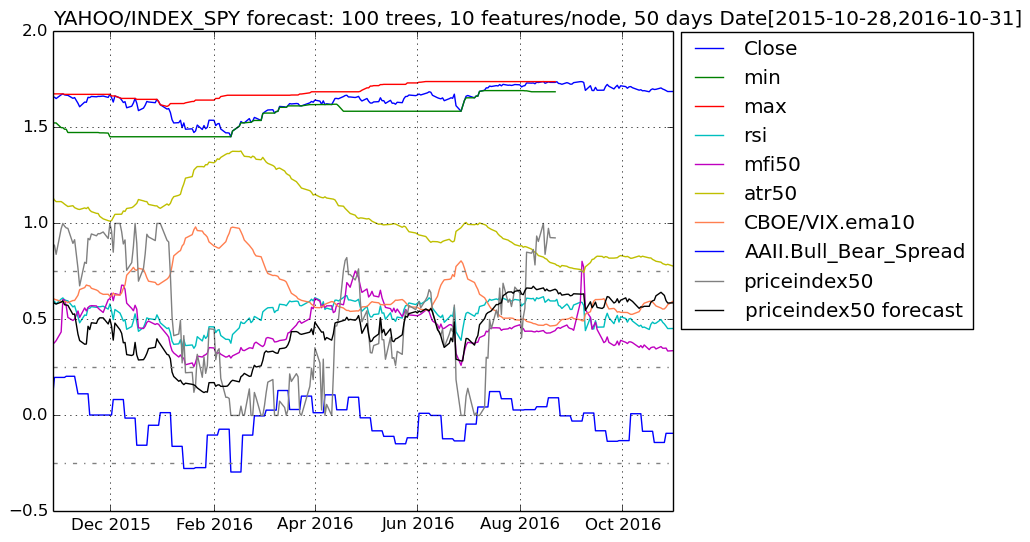
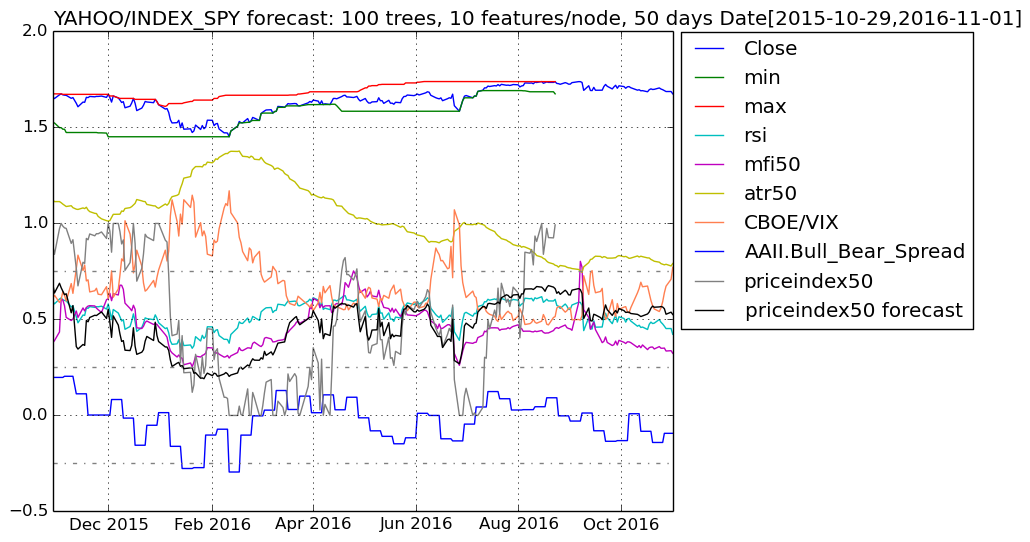
update results

diff --git a/README.md b/README.md
@@ -4,26 +4,26 @@
 
 ### Ensemble of Decision Trees  
 Trees:      100  
-Avg Leaves: 439.23  
-Avg Depth:  29.41  
+Avg Leaves: 437.23  
+Avg Depth:  28.9  
 
 ### 3-fold cross validation on regression forest  
 Fold 1  
-Mean Squared Error:     0.01361883615775832  
-Correlation Coeff:      0.945731796988748  
-Coeff of Determination: 0.8739716547505065  
+Mean Squared Error:     0.010569725315563121  
+Correlation Coeff:      0.9617254663004614  
+Coeff of Determination: 0.9015229552799134  
 
 Fold 2  
-Mean Squared Error:     0.012130636926655322  
-Correlation Coeff:      0.9532343272329584  
-Coeff of Determination: 0.8860368625580082  
+Mean Squared Error:     0.01104033399689102  
+Correlation Coeff:      0.9563548279209828  
+Coeff of Determination: 0.8919879352136142  
 
 Fold 3  
-Mean Squared Error:     0.01327994637297167  
-Correlation Coeff:      0.9488790192785918  
-Coeff of Determination: 0.8785499370865194  
+Mean Squared Error:     0.011153099432022771  
+Correlation Coeff:      0.9590319683304054  
+Coeff of Determination: 0.8974632834972178  
 
-Mean Coeff of Determination: 0.8795194847983447  
+Mean Coeff of Determination: 0.8969913913302485  
 
 ![1 year forecast](output_28_0.png)
 
